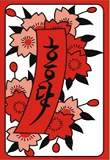
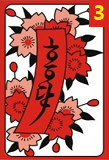
주석 추가 및 상단바 수정 메인 페이지 재산가 파트 만억조경으로 나오도록 수정 패에 숫자 추가

diff --git a/src/sutdaGame/web/controller/MainController.java b/src/sutdaGame/web/controller/MainController.java
@@ -31,6 +31,7 @@ public class MainController {
 	//메인
 	@RequestMapping(path={"/","main"})
 	public String main(Model model) {
+		
 		model.addAttribute("money",playerService.rankByMoney());
 		model.addAttribute("rate",playerService.rankByRate());
 		model.addAttribute("youtube",boardService.selectBoardList(10, new Page(4,4,1)));

diff --git a/src/sutdaGame/web/vo/PlayerVO.java b/src/sutdaGame/web/vo/PlayerVO.java
@@ -8,8 +8,8 @@ public class PlayerVO {
 	private String id;
 	private String password;
 	private String nickname;
-	private Long money;
-	private String strMoney;
+	private Long money;			//숫자로 출력
+	private String strMoney;	//억만조경으로 출력
 	private Integer win;
 	private Integer lose;
 	private Integer character;
